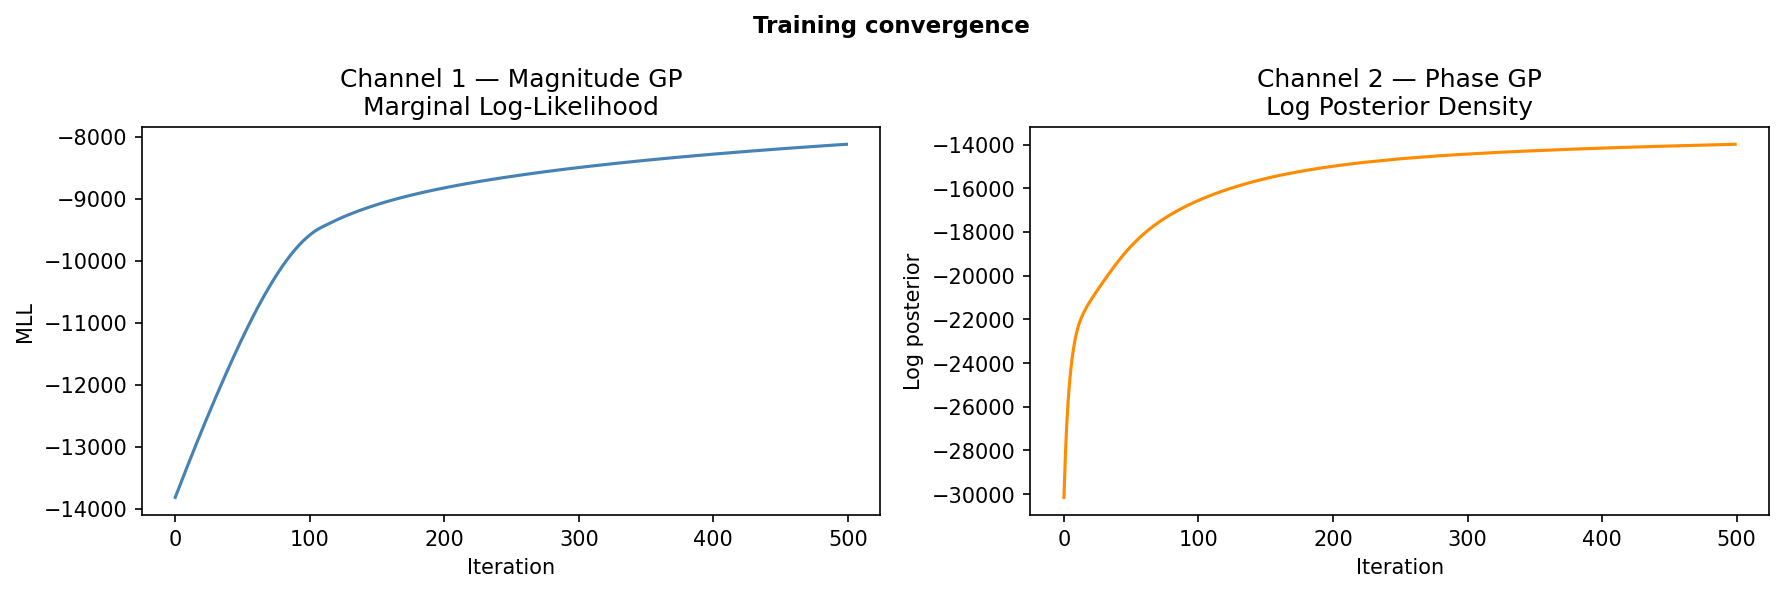
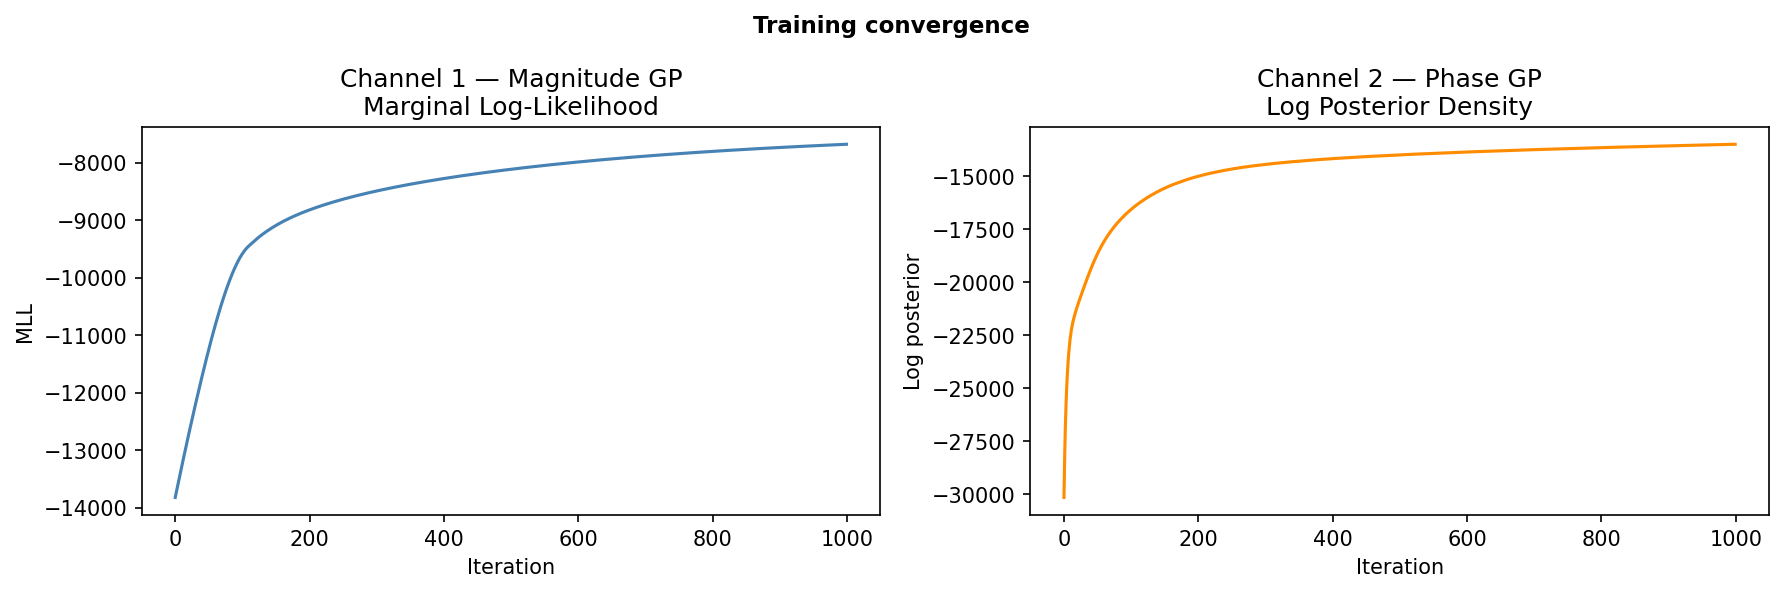
Problem with saving the model with equinox

diff --git a/MyCuda_GP.py b/MyCuda_GP.py
@@ -692,7 +692,7 @@ def train_full_model(
 
 model = train_full_model(
     rho_values, frf_matrix, freq_values,
-    num_iters=500,
+    num_iters=1000,
     learning_rate=0.01,
 )
 
@@ -821,11 +821,14 @@ print("\n" + "═" * 60)
 print("STEP 8 — Saving model")
 print("═" * 60)
 
+# Saving the model using pkl
 import pickle
-
-# Assuming 'optimized_model' is your trained GPJax model object
 with open("CUDA_gp_model.pkl", "wb") as f:
     pickle.dump(model, f)
+
+# Saving the model using equinos
+import equinox as eqx 
+eqx.tree_serialise_leaves("CUDA_gp_model.eqx", model)
 
 print("\nFinished saving model")
 print("═" * 60)

diff --git a/MyOptimization.py b/MyOptimization.py
@@ -83,6 +83,7 @@ import equinox as eqx
 import matplotlib.pyplot as plt
 import matplotlib.gridspec as gridspec
 from scipy.optimize import minimize_scalar
+import equinox as eqx
 
 config.update("jax_enable_x64", True)
 
@@ -176,7 +177,9 @@ def load_model(prefix: str) -> dict:
              (no file extension — three files are expected)
     """
     # ── Load datasets and metadata ────────────────────────────────────────────
-    data    = np.load(prefix + "_data.npz")
+    # data    = np.load(prefix + "_data.npz")
+    data    = eqx.tree_deserialise_leaves(prefix + ".eqx")
+    # data    = eqx.tree_deserialise_leaves(prefix + ".eqx", data)
     mag_ds  = gpx.Dataset(X=jnp.array(data["mag_X"]),
                           y=jnp.array(data["mag_y"]))
     sign_ds = gpx.Dataset(X=jnp.array(data["sign_X"]),